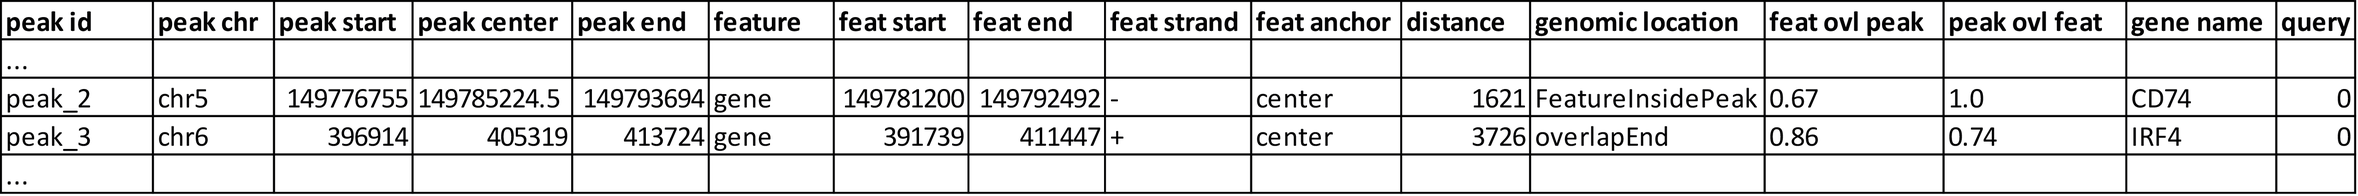
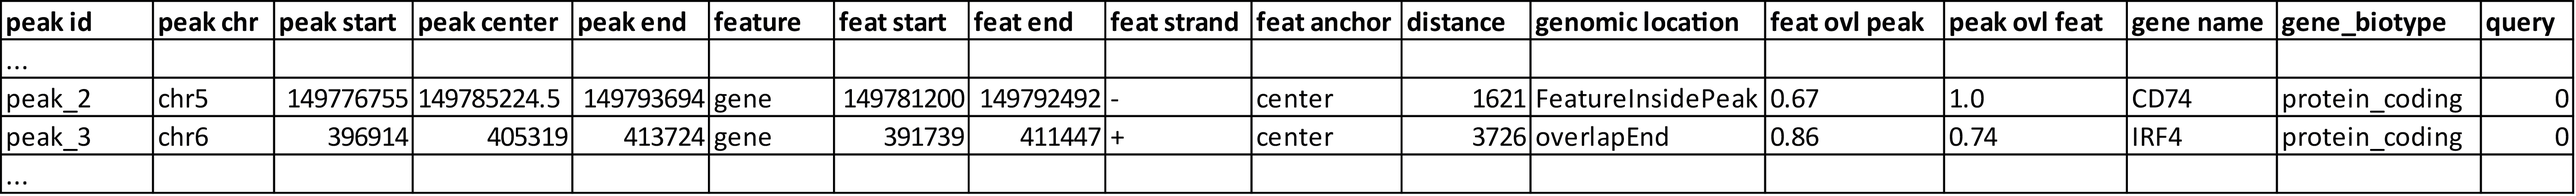
different example order

diff --git a/docs/uropa-example.md b/docs/uropa-example.md
@@ -10,15 +10,14 @@ Typically, the distance is calculated from the TSS, correspond to 'start' in URO
 
 If no value is given, the distances from all three positions to the peak center are calculated and the closest is choosen. Only if the choosen distance is smaller or equal to the distance defined in the 'distance' key, the peak will be annotated for that feature.                                                                                        The position closer to the peak.center will be indicated in the output file in the column **'feat_anchor'**.
 
-This example is based on H3K4me1 peaks annotated with the Gencode genome [further details here](http://uropa.readthedocs.io/en/latest/uropa-example/#used-peak-and-annotation-files). 
-
 There are two queries with different 'feature.anchor' for this example. 
 
 ```json
 "queries": [ {"feature":"gene", "distance":5000, "feature.anchor": "start", "show.attributes":"gene_name", },       
 		       {"feature": "gene","distance":5000, "feature.anchor": "center"} ]
 "priority" : "False"
-
+"gtf": "gencode.v19.annotation.gtf",
+"bed": "ENCFF001SUE.bed"
 ```
 
 As displayed in the output below (Table 1), the peak could only be annotated for query 1 where 'feature.anchor' is set to 'center' and the measured distance is within the accepted cut-off value. 
@@ -30,7 +29,7 @@ The location of the gene and the peak of interest (highlighted in black colour) 
 _Table 1: AllHits with annotation of a peak from two queries with different 'feature.anchor' and 'priority' = 'False'_
 
 
-![peak71](img/chr22-18161287-18161496_peak71_h3k4me1_feature_pos.png)
+![peak71](img/chr22-18161287-18161496_peak71_h3k4me1_feature_pos.png =150x)
 
 _Figure 1: From the histone mark H3K4me1, peak71(chr22:18161387-18161496) annotated with the gene *BCL2L13* from gencode, at a distance 1063bp from feature.center to peak.center_
 
@@ -61,56 +60,44 @@ So,the location of the peak is relative to the feature’s direction, and furthe
 ![peak_upstream](img/peak_Upstream_Downstream_of_gene.png)
 
 
-Figure 2 : Location of a peak shown upstream of the TSS of a gene X. Respectively, if peak found on the right side it would be considered 'downstream' of the gene X
-
-
-
-Let’s see now an example of an annotation with and without direction chosen, for the peak shown in Figure 3.
-It is based on H3K4me1 peaks annotated with the Gencode genome, 
-found here : [gtf and bed source files](http://uropa.readthedocs.io/en/latest/uropa-example/#used-peak-and-annotation-files)
+Figure 2 : Location of a peak shown upstream of the start of a gene. In some cases the 'upstream' direction will be matched with annotation of genomic_location 'overlapStart', the second peak would be an example for this genomic location.
+Respectively, if peak found on the right side it would be considered 'downstream' of the gene and the genomic_location would be 'overlapEnd' or 'downstream'.
 
 
 ![direction.key](img/chr1-1,403,500-1,408,500-01_h3k4me1_peaks.png)  
 
 Figure 3: H3K4me1 peak annotated with the Gencode genome, the genomic location is chr1:1,403,500-1,408,500
 
-    
-The query is the following:       
-
-`"queries": [{ "feature": "gene", "attribute":"gene_name", "distance":1000, "direction":"any_direction" }] `
+The peak, the following example is based on is displayed in Figure 3. 
+Configuration for the first annotation run:
+```json
+"queries": [{ "feature": "gene", "attribute":"gene_name", "distance":1000, "direction":"any_direction" }]
+"priority" : "False"
+"gtf": "gencode.v19.annotation.gtf",
+"bed": "ENCFF001SUE.bed"
+```
 
 The peak displayed in Figure 3 would be annotated for both genes as shown in the table below:
 
-![table7](img/ex1_table-07.png )
+![table2](img/ex1_table-07.png )
 
-[Table 7 : AllHits for an H3K4me1-peak annotated with two genes of different directions relative to the peak, according to the above config file ]
-
-
-Due to the fact that no 'feature.anchor' was defined, the distance shown in the table is measured from the ` min(|[start,center,end] - peak.center|) `, 
-as explained in "Example for the 'feature.anchor'" and the position having the minimum distance is given in the table : 'start' for  *ATAD3B*, 'end' for *ATAD3C* .
+_Table 2 : AllHits for an H3K4me1 peak annotated for two genes with different directions of the peak_
 
 
-From All_hits_table we can infer the best annotation,too, which is this case, the gene *ATAD3C* , with distance 712 bp.  
+Due to the fact that no 'feature.anchor' was defined, the distance shown in the table is measured from the closed feature.anchor: 'start' for  *ATAD3B*, 'end' for *ATAD3C* .
 
-But, let's see the differences when the 'direction' key is set. If only 'upstream' annotation is required :
+In this case, the annotation for gene *ATAD3C* with a distance of 712 bp would be represented in the FinalHits. Due to the knowledge that the peak represents H3K4me1 peaks, biologically it might be more probable to annotate it for *ATAD3B*.
+With this kind of estimation of your data, the 'direction' key can be used for a more specialized annotation.
+Configuration for the second annotation run:
+```json
+"queries": [{ "feature": "gene", "attribute":"gene_name", "distance":1000, "direction":"upstream" }]
+"priority" : "False"
+"gtf": "gencode.v19.annotation.gtf",
+"bed": "ENCFF001SUE.bed"
+```
 
-`"queries": [{"feature": "gene", "show.attributes":"gene_name", "distance":1000, "direction":"upstream"}] `
 
-
-In this case the peak will only be annotated for *ATAD3B* ,as shown in Table 8, because it is located 'upstream' to it, so *ATAD3C*  it is not a valid feature, even though the distance is closer. 
-
-![table8](img/ex1_table-08.png )
-
-[Table 8: AllHits_table for an H3K4me1-peak annotated with an upstream gene are required by the query ]
-
-
-**The direction is considered a priority parameter for the annotation, so only if direction is valid, the distance will then be validated, too.**
-
-The location of a peak relative to the annotated feature can also be found at the column **'genomic_location'** even when 'direction' key is not given. This allows for an extra control of results, with or without filtering parameters.
-
-**Note** : In some cases the 'upstream' direction will be matched with annotation of genomic_location = **'overlapStart'** , 
-and respectively the 'downstream' direction will contain annotation with the genomic_location = **'overlapEnd'**, because a partial overlap with the feature is allowed when filtering for upstream/downstream peaks to features. 
-
+In this case the peak will only be annotated for *ATAD3B* , because it is located 'upstream' to it. The annotation for *ATAD3C*  is no longer, even though the distance is closer. 
 
 
 So, globally, this example shows that more specific annotation can be useful for peaks like this one, in order to obtain a unique feature matching more specific requirements. 
@@ -121,12 +108,78 @@ There is interest in cases where for example, some genomic regions are known to 
 
 Example 3: 'internals' key
 --------------------------
+By default the parameter 'internals' is set to 'False'. With this setting, peaks are only annotated with features whose 'distance' is smaller than the defined one in the config.          
+
+But there are cases where the genomic feature is larger than the set 'distance' and this case can lead to unannotated peaks, even if the peak is located inside the genomic feature interval (seen in the Example 1).     
+Same the other way around, there exist very large peaks containing small features inside their interval. 
+The 'internals' key was implemented exactly for these cases.   
+
+So, peaks with a max distance from the feature are normally annotated with it, but **also** those who contain the feature internally, or are included in the features region. 
+These internal features are the only ones allowed to be in a larger distance than the set 'distance'.
+
+Especially, when predicted peaks used for annotation are very small (e.g. ATAc-se peaks) or very large, this option becomes very handy.   
+This example is based on the peak displayed in Figure 4. The peak is very large and the region includes three different genes. 
+
+![internal.feature](img/chr6-27,857,165-27,863,637_internal_feature-01.png)
+
+Figure 4: A polR2A-peak annotated with Ensembl, genomic location: chr6 : 27,858,000 - 27,863,000
+ 
+Configuration for the first annotation run:
+```json
+"queries":[{"feature":"gene", "distance":500, "show.attributes":"gene_name", "internals" : "False"}]
+"gtf":"Homo_sapiens.GRCh37.75_chr.gtf" ,
+"bed":"ENCFF001VFA.bed"
+```
+
+![table10](img/ex1_table-10.png )
+
+_Table 3 : AllHits with "internals":"False" for the peak_13 of ENCFF001VFA._
+
+As displayed in Table 10, there are two valid annotation for the given configuration. But the third gene in this genomic regions is missed.
+
+Configuration for the second annotation:
+ Configuration for the first annotation run:
+```json
+"queries":[{"feature":"gene", "distance":500, "show.attributes":"gene_name", "internals" : "True"}]
+"gtf":"Homo_sapiens.GRCh37.75_chr.gtf" ,
+"bed":"ENCFF001VFA.bed"
+```
+
+![table9](img/ex1_table-09.png )
+
+_Table 3: AllHits with "internals":"True" for the peak_13 of ENCFF001VFA._
+
+As displayed in Table 3 there are three genes annotated for the peak. One more valid annotation as without the 'internals' key set True. All of them are located inside of the peak as shown in Figure 4.    
+Whether the peak is inside the feature or the feature in the peak is displayed in the genomic_location column of the output files. 
+
+These examples make overally evident, that depending on the biological relevance, it can be very useful to utilize more flexible keys and allow better control of results. 
+
+
 
 Example 4: 'filter.attribute' + ' 'attribute.value' keys
 ---------------------------------------------------------
 
+If the annotation should be more particularized, the linked keys 'filter.attribute' + ' 'attribute.value' can be used. With those it is possible to further restrict the annotation. 
+For example, the peaks should not just be annotated genes but protein coding genes. Things like this can be done with the linked keys, for example with the following configuration:
 
-Example with 'priority' query
+```json
+"queries":[{"feature":"gene", "distance":5000, "show.attributes":["gene_name","gene_biotype"],"filter.attribute": "gene_biotype", "attribute.value": "protein_coding" }]
+"gtf":"Homo_sapiens.GRCh37.75_chr.gtf" ,
+"bed":"ENCFF001VFA.bed"
+```
+
+**Attention** : These two keys are dependent to each other, so they must both be given for a proper use of filtering. Additionally, it is just possible to filter for values given in the attribute column. GTF source files can contain different attribute keys and values, so make sure the chosen values are present.
+
+As shown in the AllHits Table 4, the annotated peaks are only for protein coding genes. This is a stricter form of annotation. Of course all other attributes in the annotation file can be used.
+Using this keys can be very useful in combination with the 'priority' flag. With setting it 'True' it is possible to prioritize 'protein_coding' genes over 'pseudogenes' etc. 
+It is advised to use the 'filter.attribute' key also in 'show.attributes' key, too. With this is is displayed in the output files as well which is useful if several linked keys are represented in the configuration. 
+
+![table11](img/ex1_table-11.png )
+
+_Table 4 : AllHits for annotation with linked keys 'filter.attribute' + 'attribute.value'_
+
+
+Example 5: 'priority' flag
 -----------------------------
 
 More than one query can be given, keeping the same gtf and bed files, allowing for a combination of annotation in one run.    
@@ -222,93 +275,6 @@ Source files can be found here :[gtf and bed source files](http://uropa.readthed
 
 	**So, in the case of 'priority' = True, the features are mutually exclusive, and the queries are parsed for valid hits in an escalating priority.**        
 	
-
-
-
-Example for the 'direction' 
-------------------------- 
-
-
-Example for the 'internals' key
------------------------------------- 
-This example is based on POLR2A peaks annotated with the Ensembl genome. The source files can be found here:
-[gtf and bed source files](http://uropa.readthedocs.io/en/latest/uropa-example/#used-peak-and-annotation-files)
-
-By default the parameter 'internals' is set to 'False'. With this setting, peaks are only annotated with features whose 'distance' is smaller than the defined one in the config.          
-
-But there are cases where the genomic feature is larger than the set 'distance' and this case can lead to unannotated peaks, even if the peak is located inside the genomic feature interval (seen in the Example for the 'feature.anchor').     
-Same the other way around, there exist very large peaks containing small features inside their interval. 
-The 'internals' key was implemented exactly for these cases.   
-
-So, peaks with a max distance from the feature are normally annotated with it, but **also** those who contain the feature internally, or are included in the features region. 
-These internal features are the only ones allowed to be in a larger distance than the set 'distance'.
-
-Especially, when ATACseq peaks are used for annotation with very small transcription factors, this option becomes very handy.          
-The following configuration allows to search peaks internal to feature region and features internal to peak region :
-`
-"queries":[{"feature":"gene", "distance":500, "show.attributes":"gene_name", "internals" : "True"}]
-`
-
-The output will be for "peak_13":   
- 
-![table9](img/ex1_table-09.png )
-
-[ Table 9: AllHits_table internal feature example].
-
-![internal.feature](img/chr6-27,857,165-27,863,637_internal_feature-01.png)
-
-Figure 4: A polR2A-peak annotated with Ensembl, genomic location: chr6 : 27,858,000 - 27,863,000
-
-
-As displayed in Table 7 there are three genes annotated for the peak which is shown in Figure 4.    
-
-UROPA detects the internal-to-a-peak features or the internal-to-a-feature peaks and reports their 'genomic.location' in the output files. Even if the distances from feature.anchor to the peak center are larger than the 'distance' set, the features will be annotated to the corresponding peaks.
-       
-In the contrary case, where the key 'internals' is not activated ("False") and no feature.anchor is chosen,          
-the peak would only be annotated with the two genes *HIST1H3J*  and *HIST1H2AM*  ,found in distance less than 500 bp(Table 8). 
-
-![table10](img/ex1_table-10.png )
-
-[ Table 10 : AllHits_table with 'internals': 'False' for the peak_13 of polR2A ]
-
-
-These examples make overally evident, that depending on the biological relevance, it can be very useful to utilize more flexible keys and allow better control of results. 
-
-
-Example for 'filter.attibute' & 'attribute.value' key
-------------------------------------------------------
-
-For this example the same source files will be used as previously. The query that can be used for a basic filtering by attibute is the following :
-`
-"queries":[{"feature":"gene", "distance":5000, "show.attributes":["gene_name","gene_biotype"],
-            "filter.attribute": "gene_biotype", "attribute.value": "protein_coding" }
-          ] `
-
-This key allows a special filtering of the features for annotation. Only features with the requested 'attribute.value'= 'protein_coding' will be chosen for each peak, if existant in the gtf.
-
-**Attention** : These two keys are dependent to each other, so they must both be given for a proper use of filtering.
-
-The attribute shown in this example is provided in Ensembl gtf file, therefore it is possible to extract it for each genomic feature. 
-Other gtf source files contain different attribute keys and values, but if known, one can use any of them for filtering the results.
-
-Even when a custom gtf is given, it is formatted in a first step to fit the standard 'gtf' format, so all supplementary columns will be transformed in attributes as key-value pairs. 
-They can then be used in the config file of UROPA as filtering keys. 
-
-
-![table11](img/ex1_table-11.png )
-
-[Table 11 :'AllHits_table' for two peaks, as given by the query with 'attribute.value' = 'protein_coding'  ]
-
-As shown in the results above(Table 10), the keys presented allow a more flexible annotation and a better specification of results at the same time. 
-
-These two keys can be of great help especially if combined with the 'priority':'True', when the prioritization of a 'protein_coding' feature against the secondary 'non_coding' query can cluster the results in two categories based on the biotype.
-
-It is advised to use the same attribute key in the 'show.attributes' key, too, so that it can be displayed in the output table, giving the confirmation of the filtering. 
-
-
-
-
-
 Used peak and annotation files 
 ------------------------------ 
 
@@ -316,9 +282,9 @@ Annotation:
 Ensembl database of the human genome, version hg19 (GRC37): [Ensembl genome](ftp://ftp.ensembl.org/pub/release-75/gtf/homo_sapiens/)                      
 Human Gencode genome, version hg19: [Gencode genome](ftp://ftp.sanger.ac.uk/pub/gencode/Gencode_human/release_19/) 
 
-Narrow peak and signal files based on ChIP-seq of GM12878 immortalized cell line:  
-[H3K4ME1](https://www.encodeproject.org/experiments/ENCSR000AKF/)   
-[POLR2A](https://www.encodeproject.org/experiments/ENCSR000EAD/)     
+Peak and signal files based on ChIP-seq of GM12878 immortalized cell line:  
+[H3K4ME1](https://www.encodeproject.org/experiments/ENCSR000AKF/)	(accession ENCFF001SUE for bed file)
+[POLR2A](https://www.encodeproject.org/experiments/ENCSR000EAD/)	(accession ENCFF001VFA for bed file)
 
 **Note**: peak ids are manually added to make it easier to compare different tables or to combine tables with images. 
 
